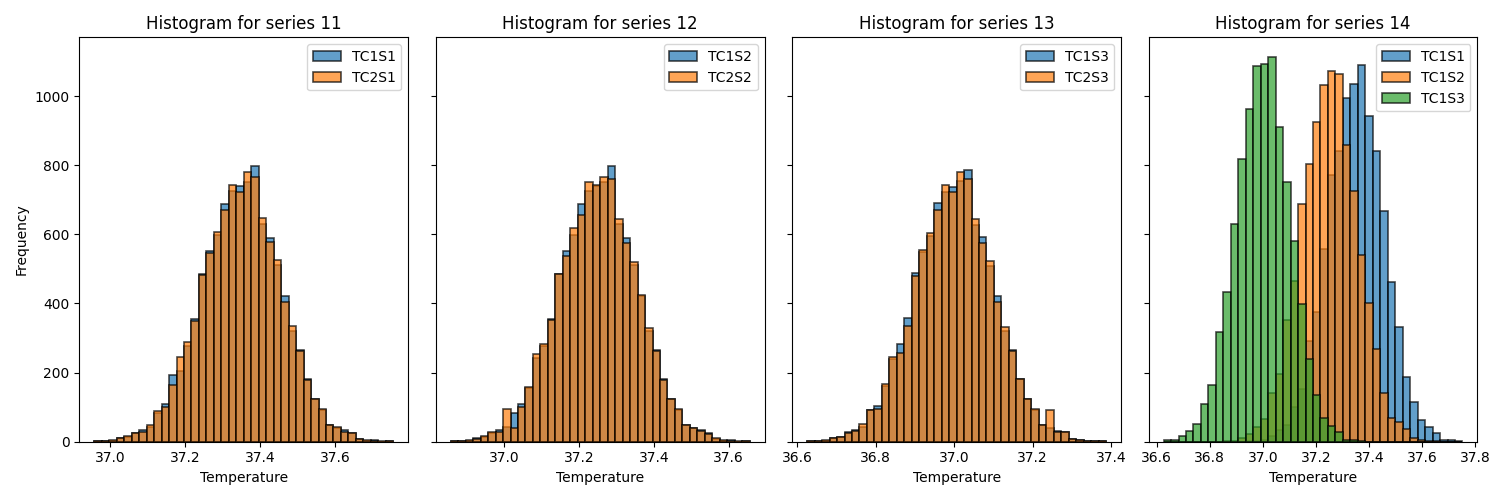
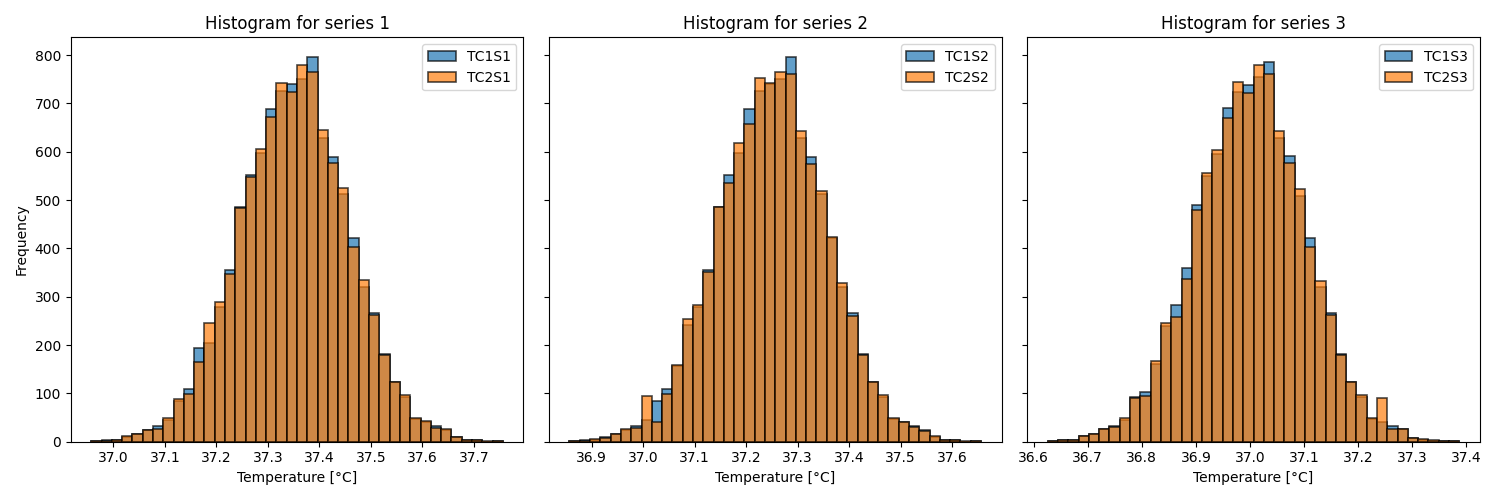
feat: add Histogram for TC1 in 3 series

diff --git a/main.py b/main.py
@@ -69,7 +69,7 @@ for i, columns in enumerate(columns_to_plot):
     df_series = df[columns]
     df_series.plot(kind='hist', bins=40, edgecolor='black', linewidth=1.2, alpha=0.7, ax=axs[i])
     axs[i].set_title(f'Histogram for series {i+1}')
-    axs[i].set_xlabel('Temperature')
+    axs[i].set_xlabel('Temperature [°C]')
     axs[i].set_ylabel('Frequency')
 
 # Adjust layout
@@ -77,6 +77,6 @@ plt.tight_layout()
 plt.savefig('images/histogramy_temperatur.png')
 
 df[['TC1S1', 'TC1S2', 'TC1S3']].plot(kind='hist', bins=40, edgecolor='black', linewidth=1.2, alpha=0.7)
-plt.xlabel('Temperature')
+plt.xlabel('Temperature [°C]')
 plt.title('Histogram for TC1 in 3 series')
 plt.savefig('images/histogramy_temperatur_2.png')
